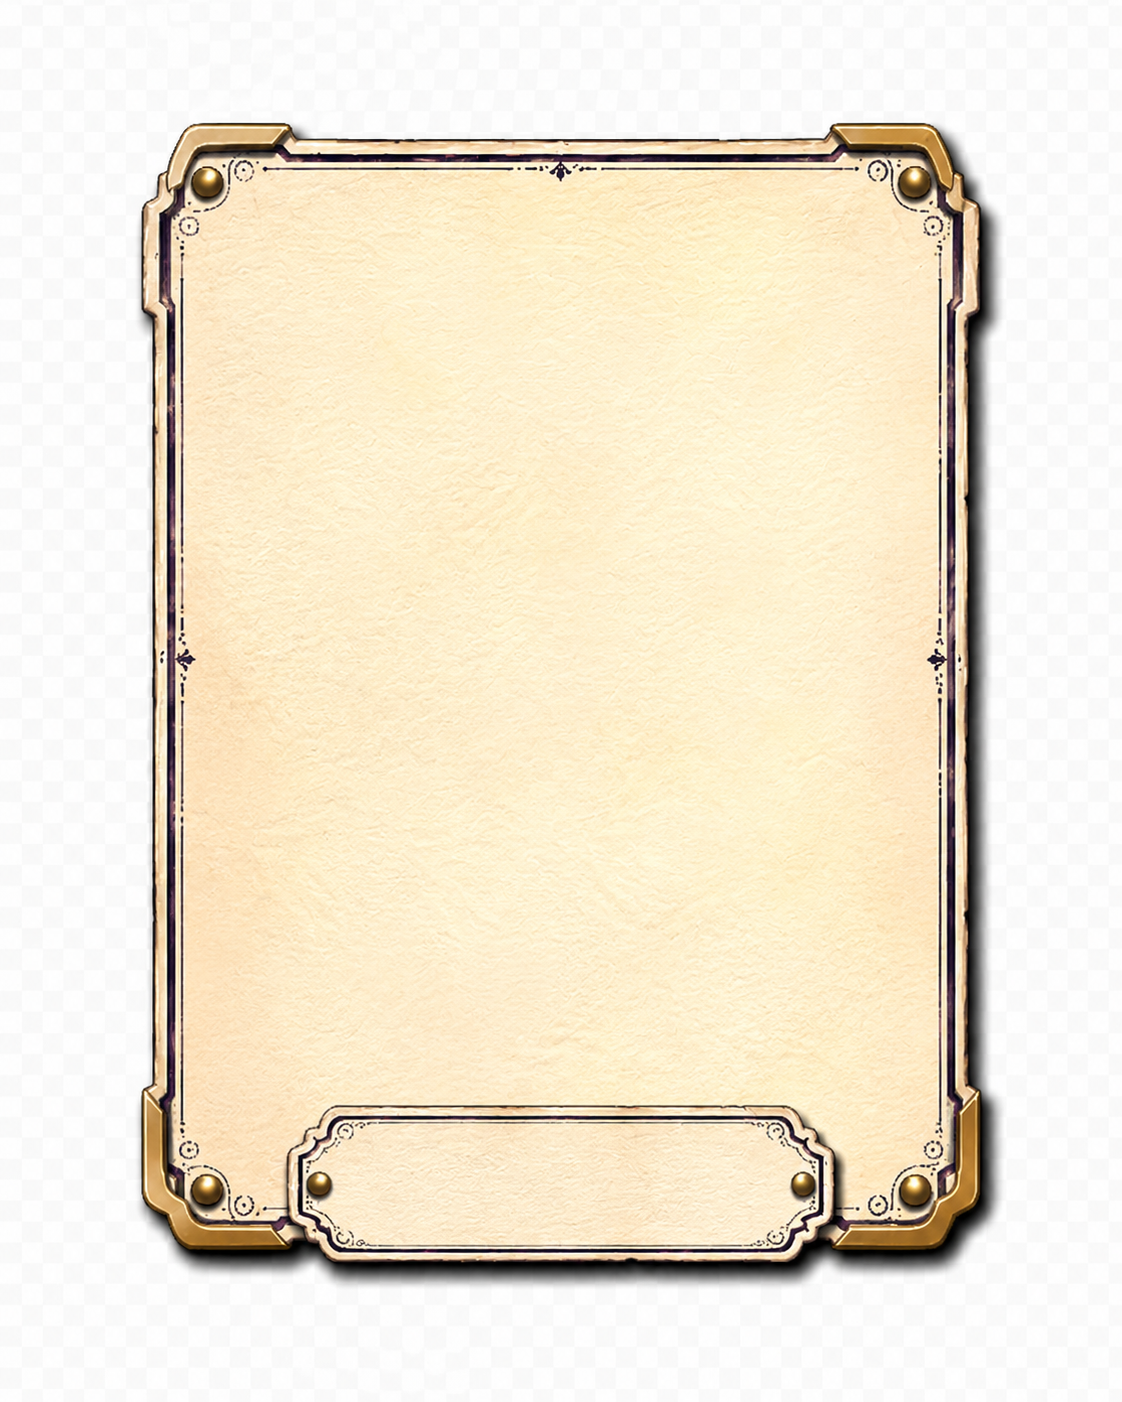
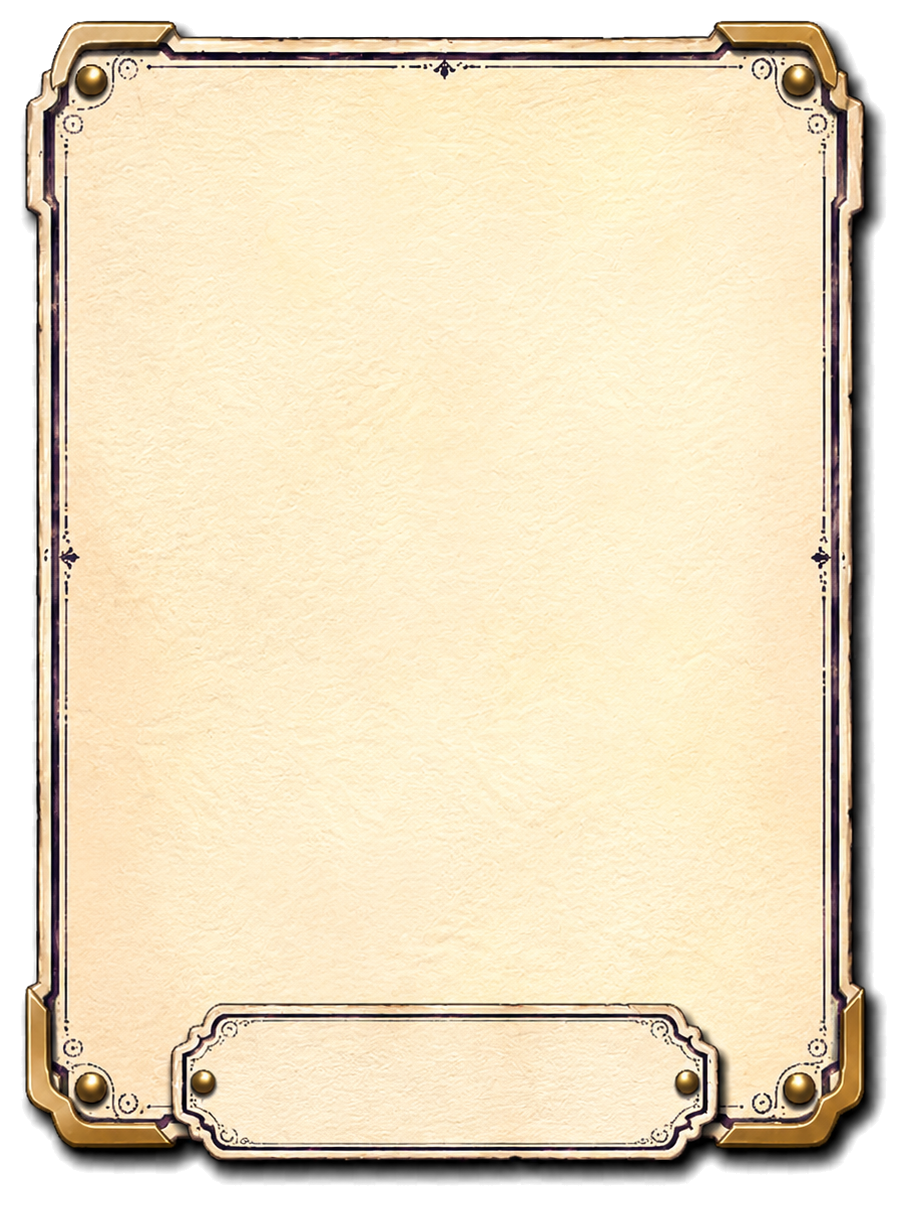
Replace panel card and badge UI with transparent sprites

diff --git a/Assets/_Project/Art/UI/README.md b/Assets/_Project/Art/UI/README.md
@@ -1,6 +1,6 @@
 # UI Sprite Library
 
-프로젝트의 핵심 버튼, 패널, 카드, 배지, 오버레이를 Unity UI에서 바로 사용할 수 있도록 정리한 PNG 스프라이트 세트입니다.
+프로젝트의 버튼, 패널, 카드, 배지, 오버레이를 Unity UI에서 바로 사용할 수 있도록 정리한 투명 PNG Sprite 모음입니다.
 
 ## 폴더 구성
 
@@ -12,13 +12,13 @@
 | `Badges` | 원형·육각형 배지, 화살표, 회전, 설정 아이콘 |
 | `Sliders` | 슬라이더 트랙과 노브 |
 | `Overlays` | 포커스, 잠금, 신규, 위험 상태 오버레이 |
-| `Markers` | 지도 방 노드 마커 |
+| `Markers` | 지도 및 룸 노드 마커 |
+| `StatusHUD` | 시간, 신뢰도, 가설, 플래그와 전역 상태 HUD |
 
-파일명은 `ui_<category>_<purpose>_<state>.png` 규칙을 사용합니다. 버튼 상태는 `normal`과 `pressed`를 한 쌍으로 제공합니다.
+파일명은 `ui_<category>_<purpose>_<state>.png` 규칙을 사용합니다.
+버튼 상태는 `normal`과 `pressed`를 한 쌍으로 제공합니다.
 
-## Unity 임포트 설정
-
-모든 PNG는 다음 설정으로 임포트되어 있습니다.
+## Unity Import 설정
 
 - Texture Type: `Sprite (2D and UI)`
 - Sprite Mode: `Single`
@@ -29,33 +29,37 @@
 - Generate Mip Maps: 비활성화
 - Filter Mode: `Bilinear`
 - Wrap Mode: `Clamp`
-- Max Size: `4096`
 - Compression: `None`
 
-원본의 2172px 너비를 보존하기 위해 Max Size를 4096으로 설정했습니다. UI에서 최종 메모리 사용량이 문제가 되면 플랫폼별 Override를 추가해 2048 또는 압축 포맷을 적용합니다.
+2,048px보다 큰 원본을 보존해야 하는 버튼은 Default Platform Max Size를 `4096`으로 설정합니다.
+플랫폼별 메모리 사용량이 문제가 되면 Standalone Override에서 `2048` 이하로 제한할 수 있습니다.
+
+## 투명 배경 정책
+
+- 모든 UI PNG는 실제 RGBA 알파 채널을 포함해야 합니다.
+- 체크무늬, 흰색, 검은색 배경이 합성된 이미지는 사용하지 않습니다.
+- 외곽 그림자와 반투명 안티앨리어싱은 보존합니다.
+- 기존 자산을 교체할 때 PNG만 덮어쓰고 `.meta` GUID는 유지합니다.
 
 ## 9-slice 설정
 
-가로로 늘려 쓰는 버튼·대화 패널·이름표·슬라이더 트랙에는 `Left 320 / Bottom 160 / Right 320 / Top 160` 테두리를 적용했습니다.
+가로로 늘어나는 버튼·대화 패널·이름표·슬라이더 트랙에는 가장자리 장식을 보호할 수 있는 Sprite Border를 지정합니다.
+팝업처럼 세로와 가로가 모두 늘어나는 패널은 네 방향 Border를 지정합니다.
 
-세로·가로 팝업 패널에는 `Left 160 / Bottom 160 / Right 160 / Top 160` 테두리를 적용했습니다.
-
-Unity `Image` 컴포넌트에서 `Image Type`을 `Sliced`로 설정해야 9-slice가 적용됩니다. 증거 카드는 하단 이름표 장식이 프레임에 포함되어 있어 비율을 유지하는 `Simple` 이미지로 사용하고, 크기 변형이 필요하면 별도 배경과 장식 레이어로 분리하는 것을 권장합니다.
+Unity `Image` 컴포넌트의 `Image Type`을 `Sliced`로 설정해야 9-slice가 적용됩니다.
+증거 카드처럼 장식이 프레임 전체에 포함된 자산은 원본 비율을 유지한 `Simple` 타입을 우선 사용합니다.
 
 ## 사용 가이드
 
-- 버튼은 `Button > Transition > Sprite Swap`에서 `normal`과 `pressed` 스프라이트를 연결합니다.
-- Hover와 Disabled 상태는 먼저 `Color Tint`를 사용하고, 독립 아트가 필요해질 때 상태 스프라이트를 추가합니다.
-- 선택·잠금·포커스 표시는 기본 카드 또는 버튼 위에 오버레이 이미지를 별도 레이어로 배치합니다.
-- 배지와 마커는 원본 종횡비를 유지하고 `Preserve Aspect`를 활성화합니다.
-- 텍스트는 이미지에 포함하지 않고 TextMeshPro로 별도 배치해 다국어와 접근성 대응을 유지합니다.
+- 버튼은 `Button > Transition > Sprite Swap`에서 Normal과 Pressed Sprite를 연결합니다.
+- Hover와 Disabled는 우선 `Color Tint`를 사용하고 필요할 때 별도 Sprite를 추가합니다.
+- 포커스·잠금·신규 상태는 기본 카드나 버튼 위에 독립 Overlay Image로 배치합니다.
+- 배지와 마커는 `Preserve Aspect`를 활성화합니다.
+- 텍스트는 이미지에 합성하지 않고 TextMeshPro로 별도 배치합니다.
+- 크기가 달라진 교체 자산은 씬에서 `Set Native Size`를 사용하기 전에 레이아웃 기준 크기를 확인합니다.
 
-## 소스 및 버전 관리
+## 버전 관리
 
-이 라이브러리는 다음 작업용 압축 파일에서 실제 PNG만 선별해 가져왔습니다.
-
-- 핵심 버튼 프레임 세트
-- 보조 UI 세트
-- 패널·카드·배지 세트
-
-압축 파일 자체는 저장소에 포함하지 않습니다. Unity가 생성한 `.meta` 파일은 GUID와 임포트 설정을 팀 전체에서 동일하게 유지하므로 PNG와 함께 반드시 커밋합니다.
+PNG와 대응 `.meta`를 함께 관리합니다.
+원본 ZIP, 콜라주, 생성 중간 파일은 레포에 포함하지 않습니다.
+교체 전후의 GUID가 동일한지 확인해 씬, 프리팹, ScriptableObject 참조가 유지되도록 합니다.
